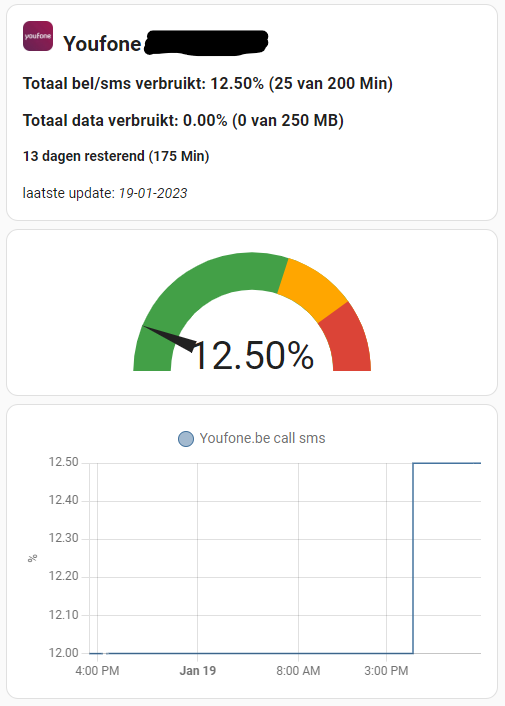
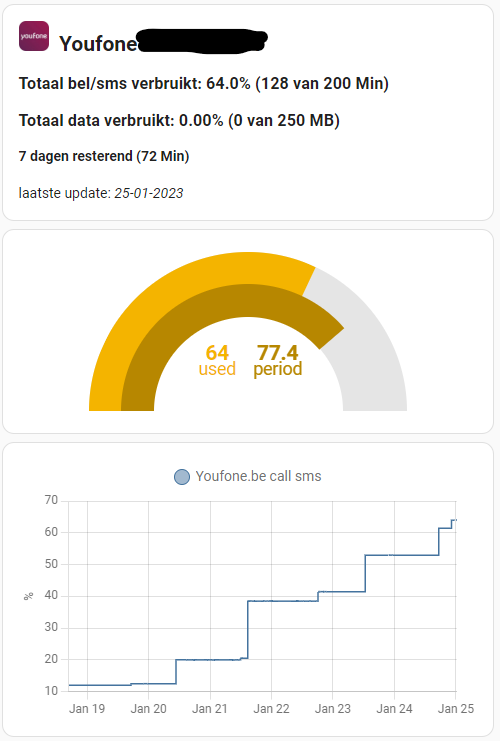
added period usage percentage to allow calculation how far we are in current period example usage with dual gauge card

diff --git a/custom_components/youfone_be/sensor.py b/custom_components/youfone_be/sensor.py
@@ -1,6 +1,7 @@
 import logging
 import asyncio
 from datetime import date, datetime, timedelta
+import calendar
 
 import homeassistant.helpers.config_validation as cv
 import voluptuous as vol
@@ -135,6 +136,7 @@ class ComponentMobileSensor(Entity):
         self._isunlimited = None
         self._extracosts = None
         self._used_percentage = None
+        self._period_used_percentage = None
         self._phonenumber = None
         self._includedvolume_usage = None
 
@@ -149,7 +151,17 @@ class ComponentMobileSensor(Entity):
         
         self._phonenumber = self._data._user_details.get('Object').get('Customer').get('PhoneNumber')
         self._period_start_date = self._data._usage_details.get('Object')[2].get('Properties')[0].get('Value')
-        self._period_left = self._data._usage_details.get('Object')[2].get('Properties')[1].get('Value')
+        self._period_left = int(self._data._usage_details.get('Object')[2].get('Properties')[1].get('Value'))
+        # date_string = self._period_start_date
+        # month_name = date_string.split()[1]
+        # month_name = languages.get(name=month_name).name
+        # date_string = date_string.replace(month_name, "February")
+        # date_object = parser.parse(date_string)
+        # period_length = calendar.monthrange(date_object.year, date_object.month)[1]
+        today = datetime.today()
+        period_length = calendar.monthrange(today.year, today.month)[1]
+        period_used = period_length - self._period_left
+        self._period_used_percentage = round(100 * (period_used / period_length),1)
         
         self._includedvolume_usage = self._data._usage_details.get('Object')[1].get('Properties')[0].get('Value')
         self._total_volume = self._data._usage_details.get('Object')[1].get('Properties')[1].get('Value')
@@ -188,6 +200,7 @@ class ComponentMobileSensor(Entity):
             "last update": self._last_update,
             "phone_number": self._phonenumber,
             "used_percentage": self._used_percentage,
+            "period_used_percentage": self._period_used_percentage,
             "total_volume": self._total_volume,
             "includedvolume_usage": self._includedvolume_usage,
             "unlimited": self._isunlimited,

diff --git a/README.md b/README.md
@@ -27,26 +27,29 @@ The main logic and API connection related code can be found within source code y
 
 All other files just contain boilerplat code for the integration to work wtihin HA or to have some constants/strings/translations.
 
-## Example usage:
+## Example usage: (using [dual gauge card](https://github.com/custom-cards/dual-gauge-card))
 ### Gauge & Markdown
 ```
 type: vertical-stack
 cards:
   - type: markdown
     content: >-
-      ## Youfone {{state_attr('sensor.youfone_be_call_sms','phone_number')}}
+      ## <img
+      src="https://raw.githubusercontent.com/myTselection/youfone_be/master/icon.png"
+      width="30"/>&nbsp;&nbsp;Youfone
+      {{state_attr('sensor.youfone_be_call_sms','phone_number')}}
 
 
-      ### Total call/sms usage: {{states('sensor.youfone_be_call_sms')}}%
-      ({{state_attr('sensor.youfone_be_call_sms','includedvolume_usage')}} of
+      ### Totaal bel/sms verbruikt: {{states('sensor.youfone_be_call_sms')}}%
+      ({{state_attr('sensor.youfone_be_call_sms','includedvolume_usage')}} van
       {{state_attr('sensor.youfone_be_call_sms','total_volume')}})
 
-      ### Total data usage: {{states('sensor.youfone_be_internet')}}%
-      ({{state_attr('sensor.youfone_be_internet','includedvolume_usage')}} of
+      ### Totaal data verbruikt: {{states('sensor.youfone_be_internet')}}%
+      ({{state_attr('sensor.youfone_be_internet','includedvolume_usage')}} van
       {{state_attr('sensor.youfone_be_internet','total_volume')}})
 
       #### {{state_attr('sensor.youfone_be_call_sms','period_days_left')|int}}
-      days reamaining
+      dagen resterend
       ({{((state_attr('sensor.youfone_be_call_sms','total_volume')|replace('
       Min','')) or 0)|int -
       (state_attr('sensor.youfone_be_call_sms','includedvolume_usage') or
@@ -54,24 +57,15 @@ cards:
 
 
 
-      latst update: *{{state_attr('sensor.youfone_be_call_sms','last update')
+      laatste update: *{{state_attr('sensor.youfone_be_call_sms','last update')
       | as_timestamp | timestamp_custom("%d-%m-%Y")}}*
        
-  - type: gauge
-    entity: sensor.youfone_be_call_sms
-    max: 100
+  - type: custom:dual-gauge-card
+    title: false
     min: 0
-    needle: true
-    unit: '%'
-    name: ''
-    severity:
-      green: 0
-  - type: history-graph
-    entities:
-      - entity: sensor.youfone_be_call_sms
-    hours_to_show: 500
-    refresh_interval: 60
-
+    max: 100
+    shadeInner: true
+    cardwidth: 350
 ```
 
 <p align="center"><img src="https://raw.githubusercontent.com/myTselection/youfone_be/master/Markdown%20Gauge%20Card%20example.png"/></p>
